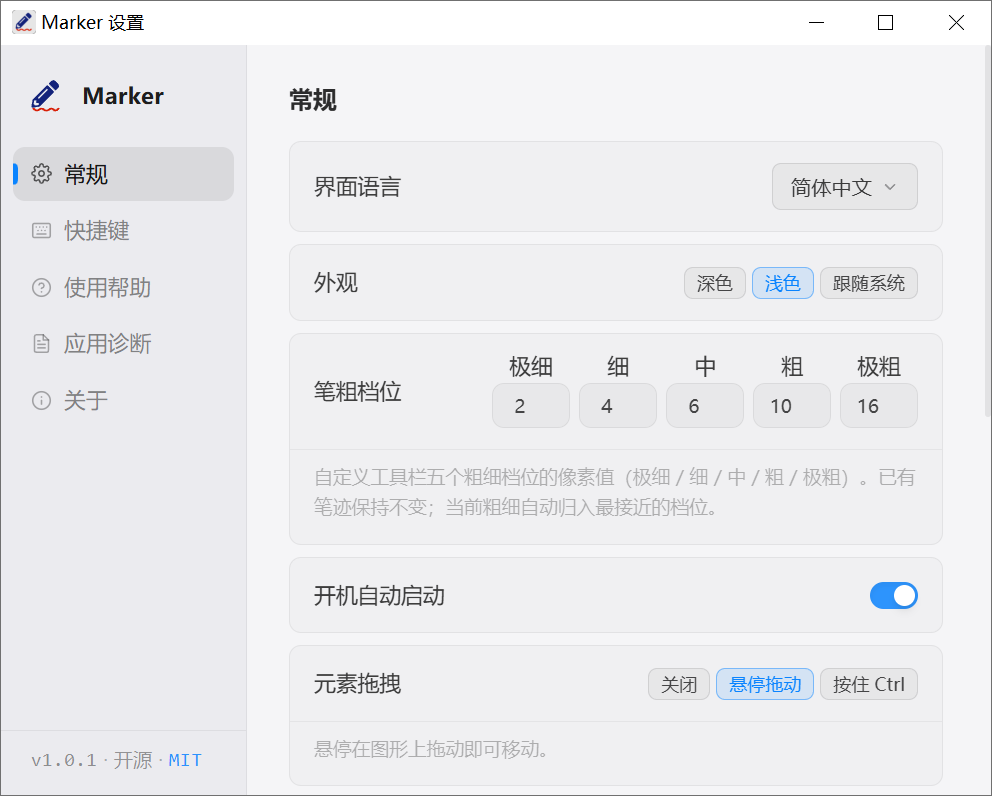
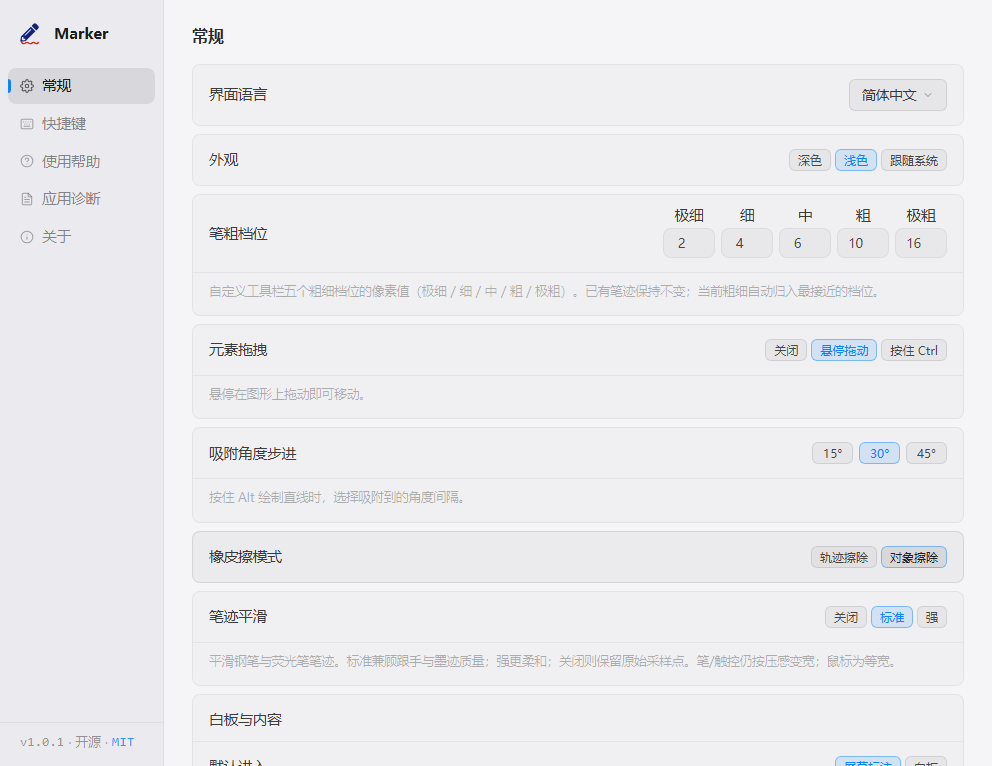
docs: redesign panel scene and capture real settings/toolbar shots
- scene3-panel: tool grid reordered to the current keymap (laser 3,
  eraser E), GripVertical handle, Q/R color copy (en/zh)
- assets/settings.png regenerated from the live settings UI (light
  theme, user's config states)
- docs/assets: real settings and toolbar captures in light + dark
  variants replace the scene renders

diff --git a/assets/store-screenshots/scene3-panel-en.html b/assets/store-screenshots/scene3-panel-en.html
@@ -388,7 +388,7 @@ body {
 
 <!-- The Actual Settings Panel -->
 <div class="settings-panel">
-  <div class="panel-drag"><div class="panel-drag-indicator"></div></div>
+  <div class="panel-drag"><svg viewBox="0 0 24 24" fill="none" stroke="rgba(255,255,255,0.45)" stroke-width="2" stroke-linecap="round" style="width:14px;height:24px;"><circle cx="9" cy="12" r="1"/><circle cx="9" cy="5" r="1"/><circle cx="9" cy="19" r="1"/><circle cx="15" cy="12" r="1"/><circle cx="15" cy="5" r="1"/><circle cx="15" cy="19" r="1"/></svg></div>
   <div class="panel-content">
     <!-- Tools Section -->
     <div class="section-header">
@@ -401,41 +401,43 @@ body {
         <span class="tool-label">Pen</span>
         <span class="tool-shortcut">1</span>
       </div>
+
       <div class="tool-btn">
         <svg viewBox="0 0 24 24"><path d="m9 11-6 6v3h9l3-3"/><path d="m22 12-4.6 4.6a2 2 0 0 1-2.8 0l-5.2-5.2a2 2 0 0 1 0-2.8L14 4"/></svg>
         <span class="tool-label">Highlight</span>
         <span class="tool-shortcut">2</span>
       </div>
       <div class="tool-btn">
+        <svg viewBox="0 0 24 24"><circle cx="12" cy="12" r="10"/><line x1="22" x2="18" y1="12" y2="12"/><line x1="6" x2="2" y1="12" y2="12"/><line x1="12" x2="12" y1="6" y2="2"/><line x1="12" x2="12" y1="22" y2="18"/></svg>
+        <span class="tool-label">Laser</span>
+        <span class="tool-shortcut">3</span>
+      </div>
+      <div class="tool-btn">
         <svg viewBox="0 0 24 24"><path d="M7 7h10"/><path d="M7 7v10"/><path d="M7 7l10 10"/></svg>
         <span class="tool-label">Arrow</span>
-        <span class="tool-shortcut">3</span>
+        <span class="tool-shortcut">4</span>
       </div>
       <div class="tool-btn">
         <svg viewBox="0 0 24 24"><rect width="18" height="18" x="3" y="3" rx="2"/></svg>
         <span class="tool-label">Rect</span>
-        <span class="tool-shortcut">4</span>
+        <span class="tool-shortcut">5</span>
       </div>
       <div class="tool-btn">
         <svg viewBox="0 0 24 24"><circle cx="12" cy="12" r="10"/></svg>
         <span class="tool-label">Ellipse</span>
-        <span class="tool-shortcut">5</span>
+        <span class="tool-shortcut">6</span>
       </div>
       <div class="tool-btn">
         <svg viewBox="0 0 24 24"><path d="M5 12h14"/></svg>
         <span class="tool-label">Line</span>
-        <span class="tool-shortcut">6</span>
+        <span class="tool-shortcut">7</span>
       </div>
       <div class="tool-btn">
         <svg viewBox="0 0 24 24"><path d="m7 21-4.3-4.3c-1-1-1-2.5 0-3.4l9.6-9.6c1-1 2.5-1 3.4 0l5.6 5.6c1 1 1 2.5 0 3.4L13 21"/><path d="M22 21H7"/><path d="m5 11 9 9"/></svg>
         <span class="tool-label">Eraser</span>
-        <span class="tool-shortcut">7</span>
+        <span class="tool-shortcut">E</span>
       </div>
-      <div class="tool-btn">
-        <svg viewBox="0 0 24 24"><circle cx="12" cy="12" r="10"/><line x1="22" x2="18" y1="12" y2="12"/><line x1="6" x2="2" y1="12" y2="12"/><line x1="12" x2="12" y1="6" y2="2"/><line x1="12" x2="12" y1="22" y2="18"/></svg>
-        <span class="tool-label">Laser</span>
-        <span class="tool-shortcut">8</span>
-      </div>
+      
       <div class="tool-btn">
         <svg viewBox="0 0 24 24"><polyline points="4 7 4 4 20 4 20 7"/><line x1="9" x2="15" y1="20" y2="20"/><line x1="12" x2="12" y1="4" y2="20"/></svg>
         <span class="tool-label">Text</span>
@@ -507,7 +509,7 @@ body {
     </div>
     <div class="feature-text">
       <h4>14 Preset Colors + Custom</h4>
-      <p>Press Q / E to switch, right-click for color picker</p>
+      <p>Press Q / R to switch, right-click for color picker</p>
     </div>
   </div>
 

diff --git a/assets/store-screenshots/scene3-panel.html b/assets/store-screenshots/scene3-panel.html
@@ -388,7 +388,7 @@ body {
 
 <!-- The Actual Settings Panel -->
 <div class="settings-panel">
-  <div class="panel-drag"><div class="panel-drag-indicator"></div></div>
+  <div class="panel-drag"><svg viewBox="0 0 24 24" fill="none" stroke="rgba(255,255,255,0.45)" stroke-width="2" stroke-linecap="round" style="width:14px;height:24px;"><circle cx="9" cy="12" r="1"/><circle cx="9" cy="5" r="1"/><circle cx="9" cy="19" r="1"/><circle cx="15" cy="12" r="1"/><circle cx="15" cy="5" r="1"/><circle cx="15" cy="19" r="1"/></svg></div>
   <div class="panel-content">
     <!-- Tools Section -->
     <div class="section-header">
@@ -406,35 +406,35 @@ body {
         <span class="tool-label">荧光笔</span>
         <span class="tool-shortcut">2</span>
       </div>
-      <div class="tool-btn">
+      
+<div class="tool-btn">
+        <svg viewBox="0 0 24 24"><circle cx="12" cy="12" r="10"/><line x1="22" x2="18" y1="12" y2="12"/><line x1="6" x2="2" y1="12" y2="12"/><line x1="12" x2="12" y1="6" y2="2"/><line x1="12" x2="12" y1="22" y2="18"/></svg>
+        <span class="tool-label">激光笔</span>
+        <span class="tool-shortcut">3</span>
+      </div><div class="tool-btn">
         <svg viewBox="0 0 24 24"><path d="M7 7h10"/><path d="M7 7v10"/><path d="M7 7l10 10"/></svg>
         <span class="tool-label">箭头</span>
-        <span class="tool-shortcut">3</span>
+        <span class="tool-shortcut">4</span>
       </div>
       <div class="tool-btn">
         <svg viewBox="0 0 24 24"><rect width="18" height="18" x="3" y="3" rx="2"/></svg>
         <span class="tool-label">矩形</span>
-        <span class="tool-shortcut">4</span>
+        <span class="tool-shortcut">5</span>
       </div>
       <div class="tool-btn">
         <svg viewBox="0 0 24 24"><circle cx="12" cy="12" r="10"/></svg>
         <span class="tool-label">椭圆</span>
-        <span class="tool-shortcut">5</span>
+        <span class="tool-shortcut">6</span>
       </div>
       <div class="tool-btn">
         <svg viewBox="0 0 24 24"><path d="M5 12h14"/></svg>
         <span class="tool-label">直线</span>
-        <span class="tool-shortcut">6</span>
+        <span class="tool-shortcut">7</span>
       </div>
       <div class="tool-btn">
         <svg viewBox="0 0 24 24"><path d="m7 21-4.3-4.3c-1-1-1-2.5 0-3.4l9.6-9.6c1-1 2.5-1 3.4 0l5.6 5.6c1 1 1 2.5 0 3.4L13 21"/><path d="M22 21H7"/><path d="m5 11 9 9"/></svg>
         <span class="tool-label">橡皮擦</span>
-        <span class="tool-shortcut">7</span>
-      </div>
-      <div class="tool-btn">
-        <svg viewBox="0 0 24 24"><circle cx="12" cy="12" r="10"/><line x1="22" x2="18" y1="12" y2="12"/><line x1="6" x2="2" y1="12" y2="12"/><line x1="12" x2="12" y1="6" y2="2"/><line x1="12" x2="12" y1="22" y2="18"/></svg>
-        <span class="tool-label">激光笔</span>
-        <span class="tool-shortcut">8</span>
+        <span class="tool-shortcut">E</span>
       </div>
       <div class="tool-btn">
         <svg viewBox="0 0 24 24"><polyline points="4 7 4 4 20 4 20 7"/><line x1="9" x2="15" y1="20" y2="20"/><line x1="12" x2="12" y1="4" y2="20"/></svg>
@@ -507,7 +507,7 @@ body {
     </div>
     <div class="feature-text">
       <h4>14 种预设颜色 + 自定义</h4>
-      <p>按 Q / E 快速切换，右键弹出选色盘</p>
+      <p>按 Q / R 快速切换，右键弹出选色盘</p>
     </div>
   </div>
 
